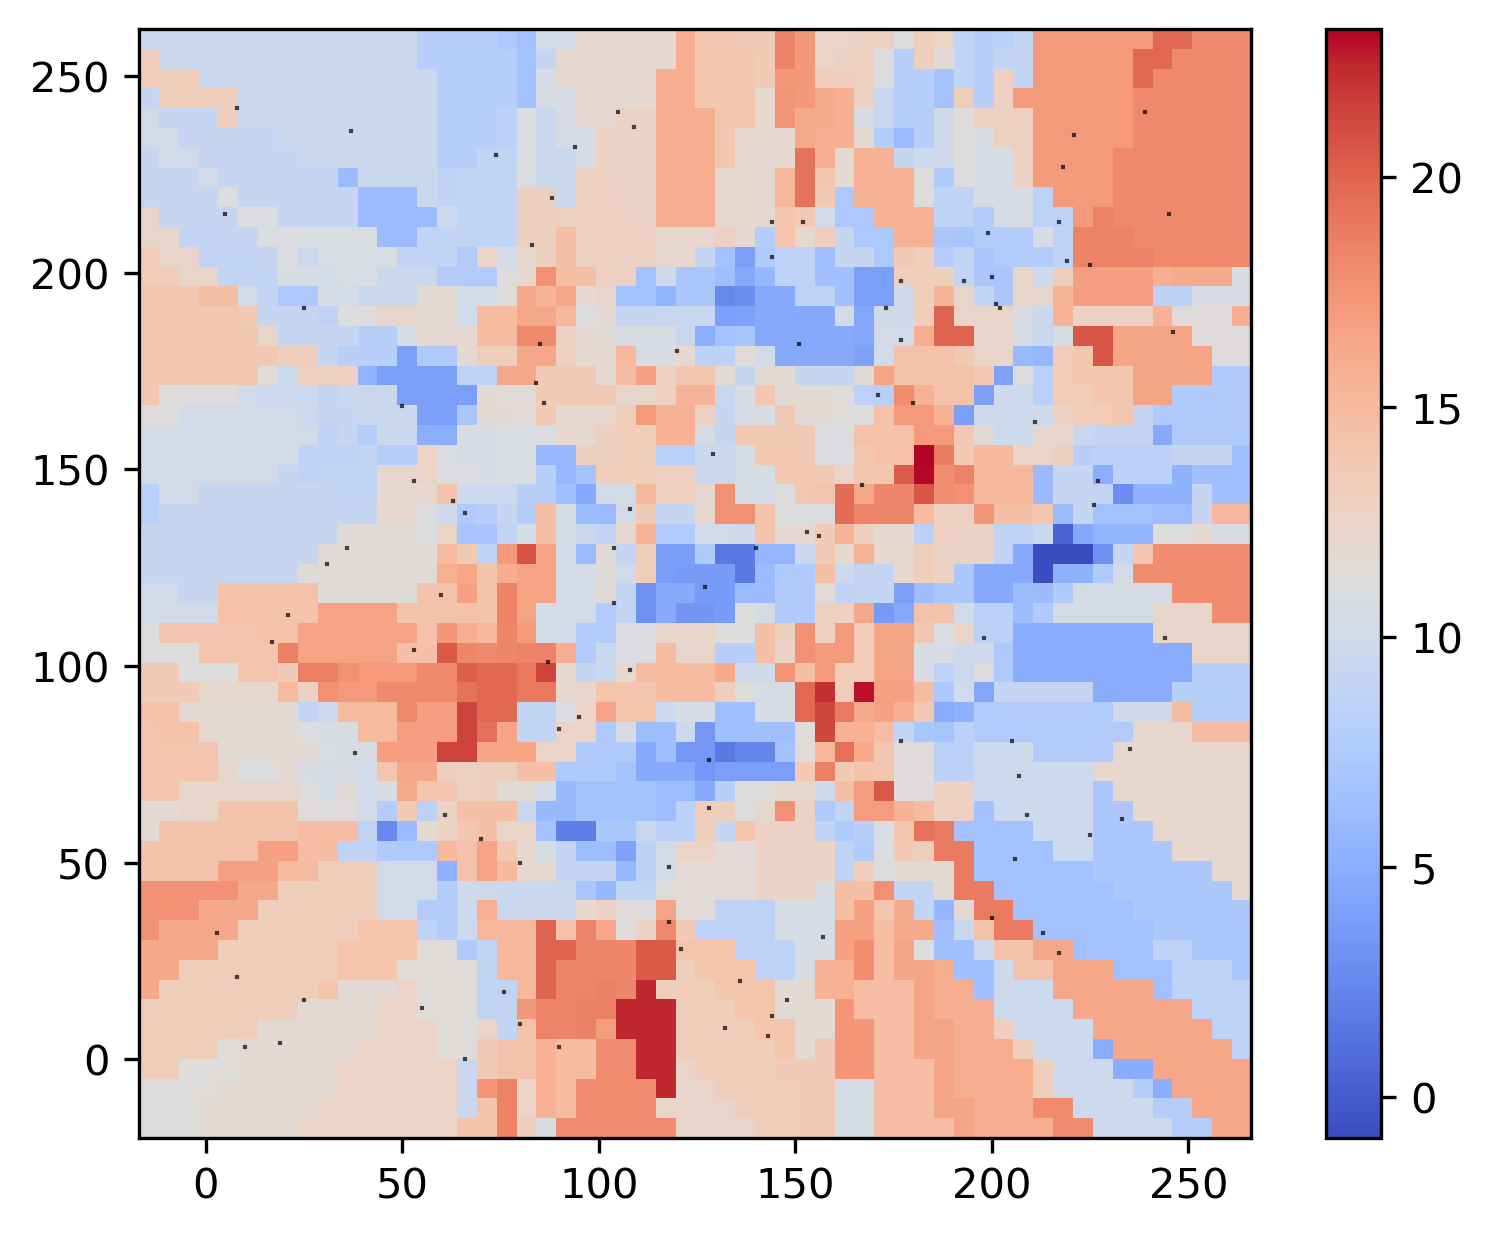
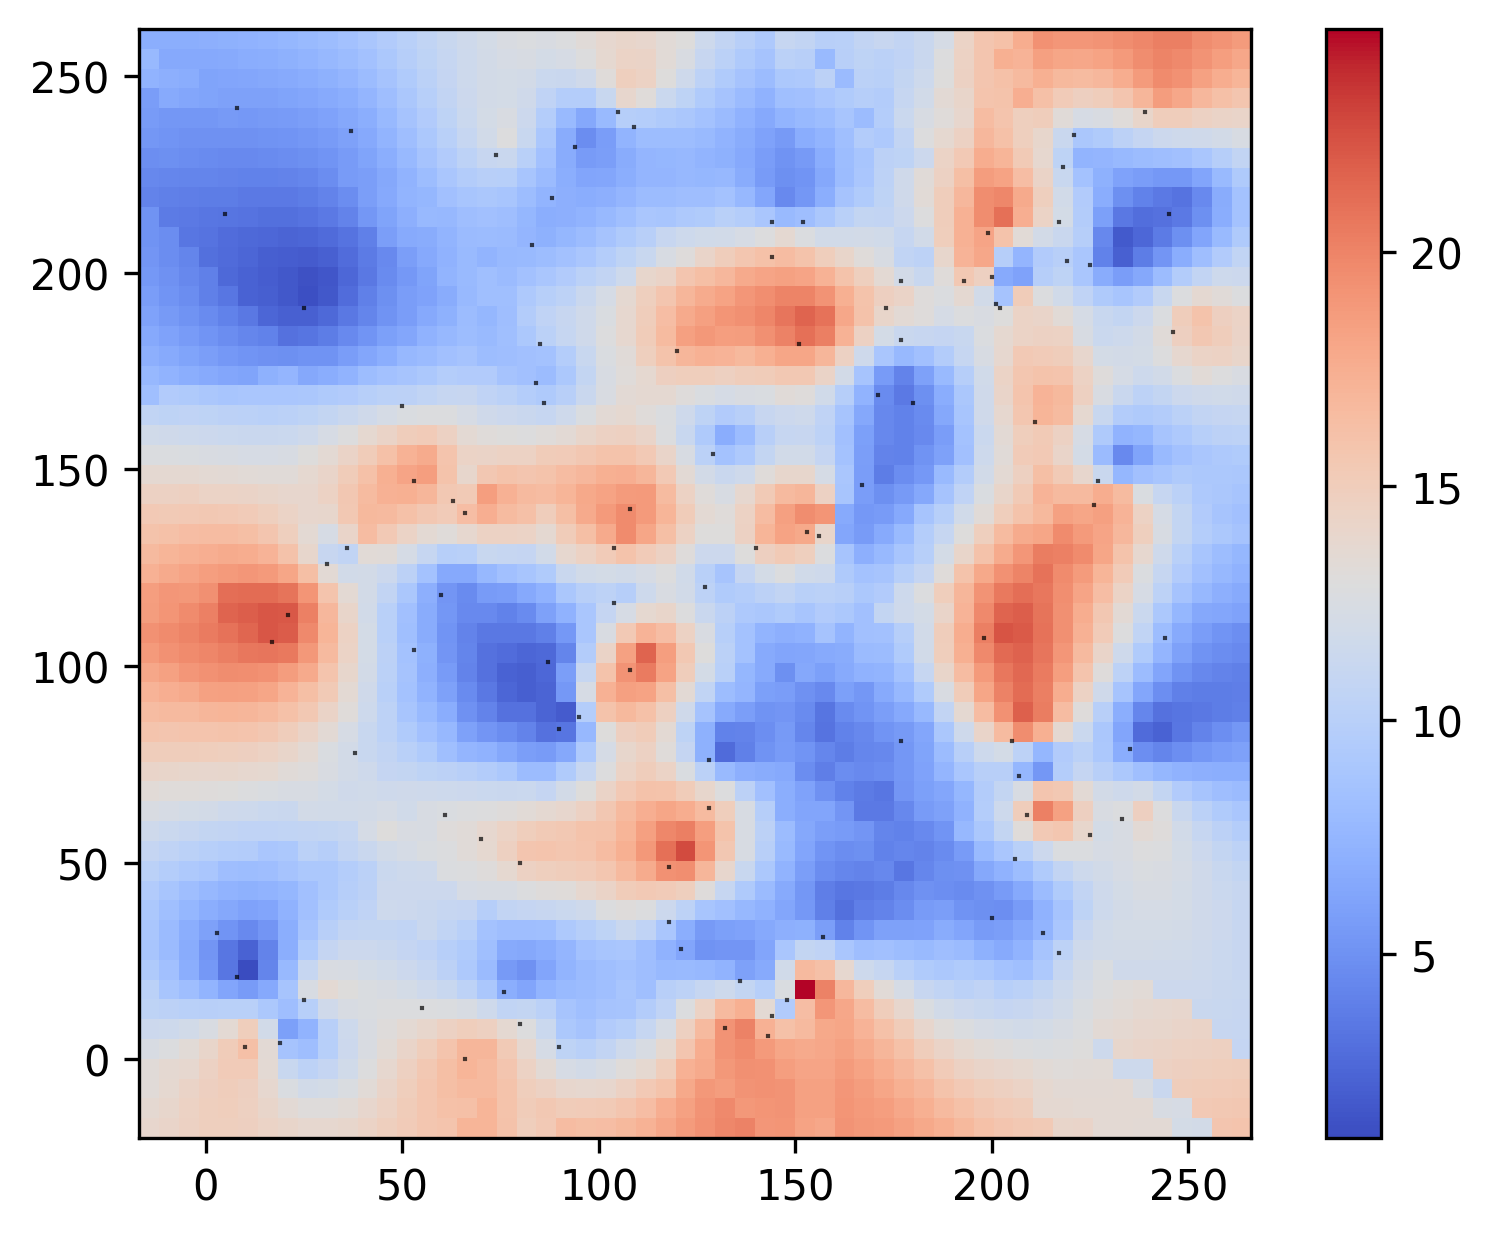
Made the changes to pysgems to plot also the variance map when (normal) kriging is used. Also made changes to demo_kriging so the example works and also plots the variance map.

diff --git a/pysgems/plot/sgplots.py b/pysgems/plot/sgplots.py
@@ -46,7 +46,7 @@ class Plots(Package):
         plt.grid("blue")
         plt.show()
 
-    def plot_2d(self, res_file=None, save=False):
+    def plot_2d(self, name, res_file=None, save=False):
         """Rudimentary 2D plot"""
         if res_file is None:
             res_file = jp(self.parent.res_dir, "results.grid")
@@ -73,6 +73,6 @@ class Plots(Package):
         plt.colorbar()
         if save:
             plt.savefig(
-                jp(self.parent.res_dir, "results.png"), bbox_inches="tight", dpi=300
+                jp(self.parent.res_dir, name), bbox_inches="tight", dpi=300
             )
         plt.show()

diff --git a/pysgems/examples/demo_kriging.py b/pysgems/examples/demo_kriging.py
@@ -57,8 +57,18 @@ def main():
 
     # %% Run sgems
     pjt.run()
+
     # Plot 2D results
-    pl.plot_2d(save=True)
+    namekriging = "results"
+    result_file_kriging = join_path(rdir, namekriging + ".grid")
+    save = "kriging"
+    pl.plot_2d(namekriging, res_file=result_file_kriging, save=save)
+
+    namekrigingvar = "results(var)"
+    result_file_kriging_variance = join_path(rdir, namekrigingvar + ".grid")
+    save = "kriging_var"
+    pl.plot_2d(namekrigingvar, res_file=result_file_kriging_variance, save=save)
+
 
 
 if __name__ == "__main__":

diff --git a/pysgems/script_templates/script_template.py b/pysgems/script_templates/script_template.py
@@ -16,3 +16,4 @@ sgems.execute("NewCartesianGrid  computation_grid::GRID")
 
 #~sgems.execute('RunGeostatAlgorithm  ALGORITHM_NAME::/GeostatParamUtils/XML::ALGORITHM_XML')
 #~sgems.execute('SaveGeostatGrid  computation_grid::FEATURE_OUTPUT.grid::gslib::0::OUTPUT_LIST')
+#~sgems.execute('SaveGeostatGrid  computation_grid::FEATURE_OUTPUT(var).grid::gslib::1::OUTPUT_LIST_krig_var')

diff --git a/pysgems/examples/demo_sgsim.py b/pysgems/examples/demo_sgsim.py
@@ -55,8 +55,10 @@ def main():
     # %% Run sgems
     pjt.run()
     # Plot 2D results
-    pl.plot_2d(save=True)
-
+    namekriging = "results"
+    result_file_kriging = join_path(rdir, namekriging + ".grid")
+    save = "kriging"
+    pl.plot_2d(namekriging, res_file=result_file_kriging, save=save)
 
 if __name__ == "__main__":
     main()
